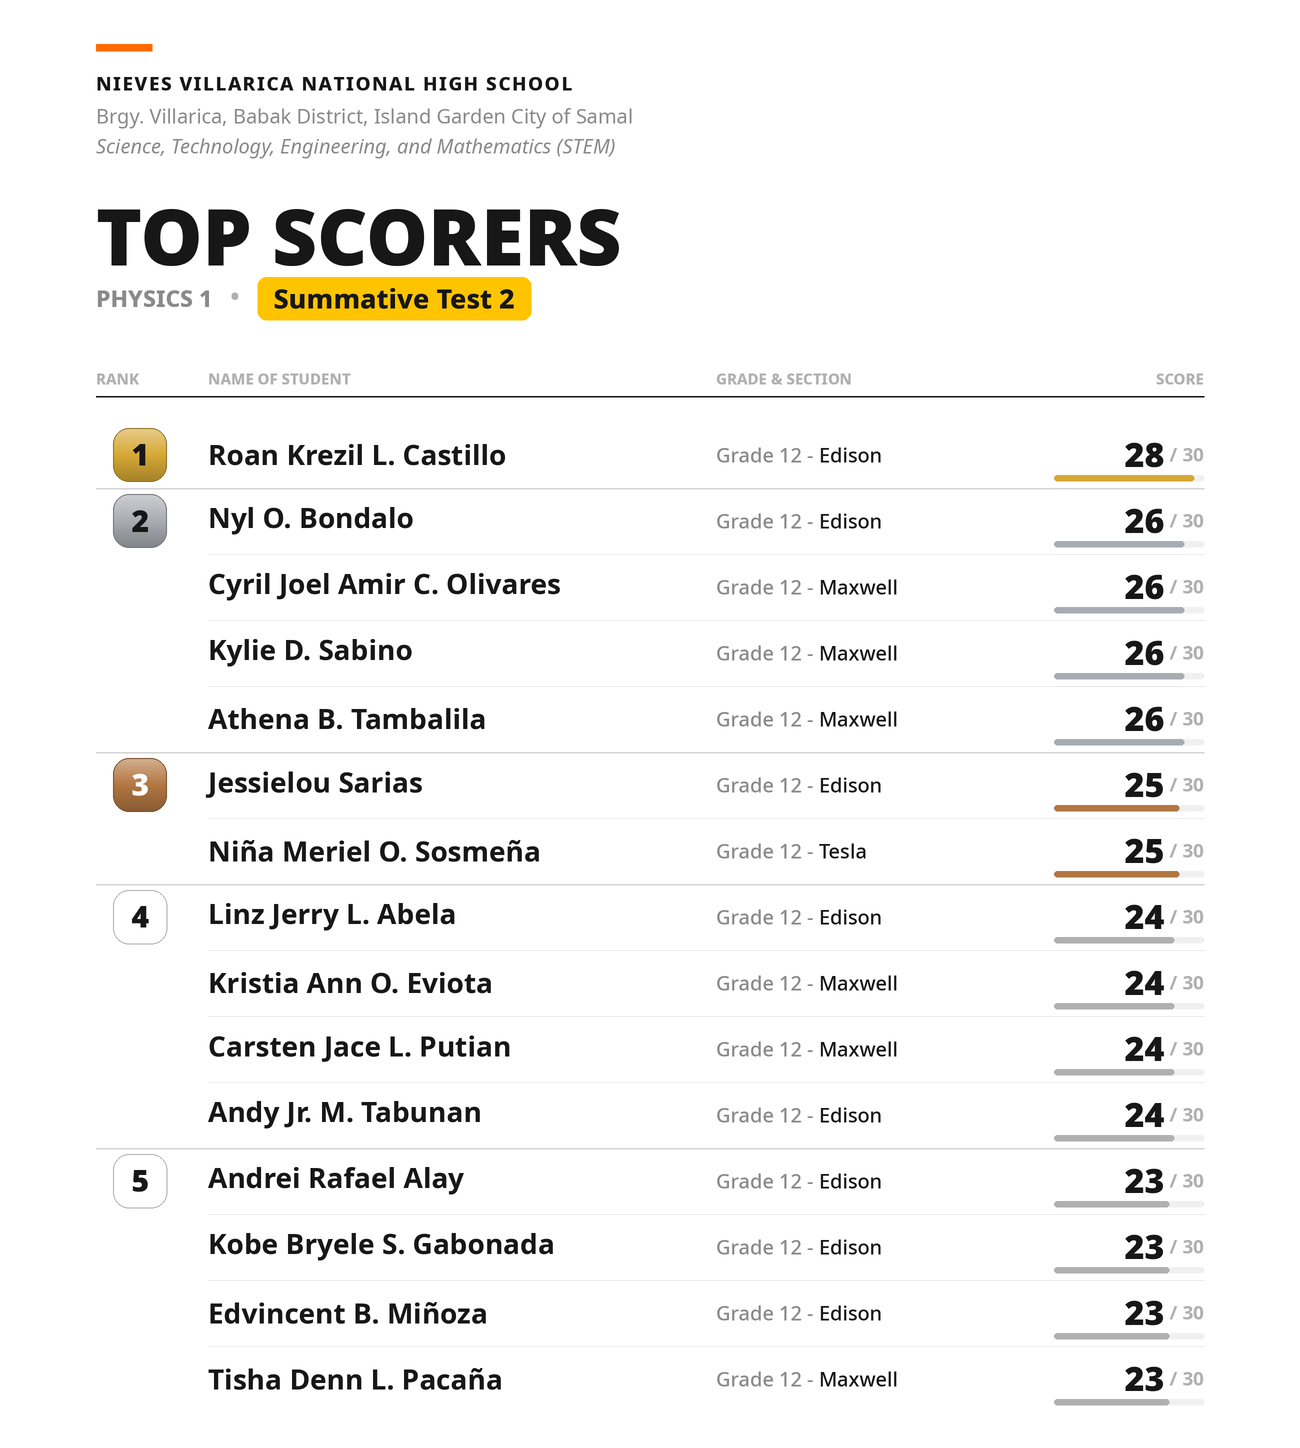
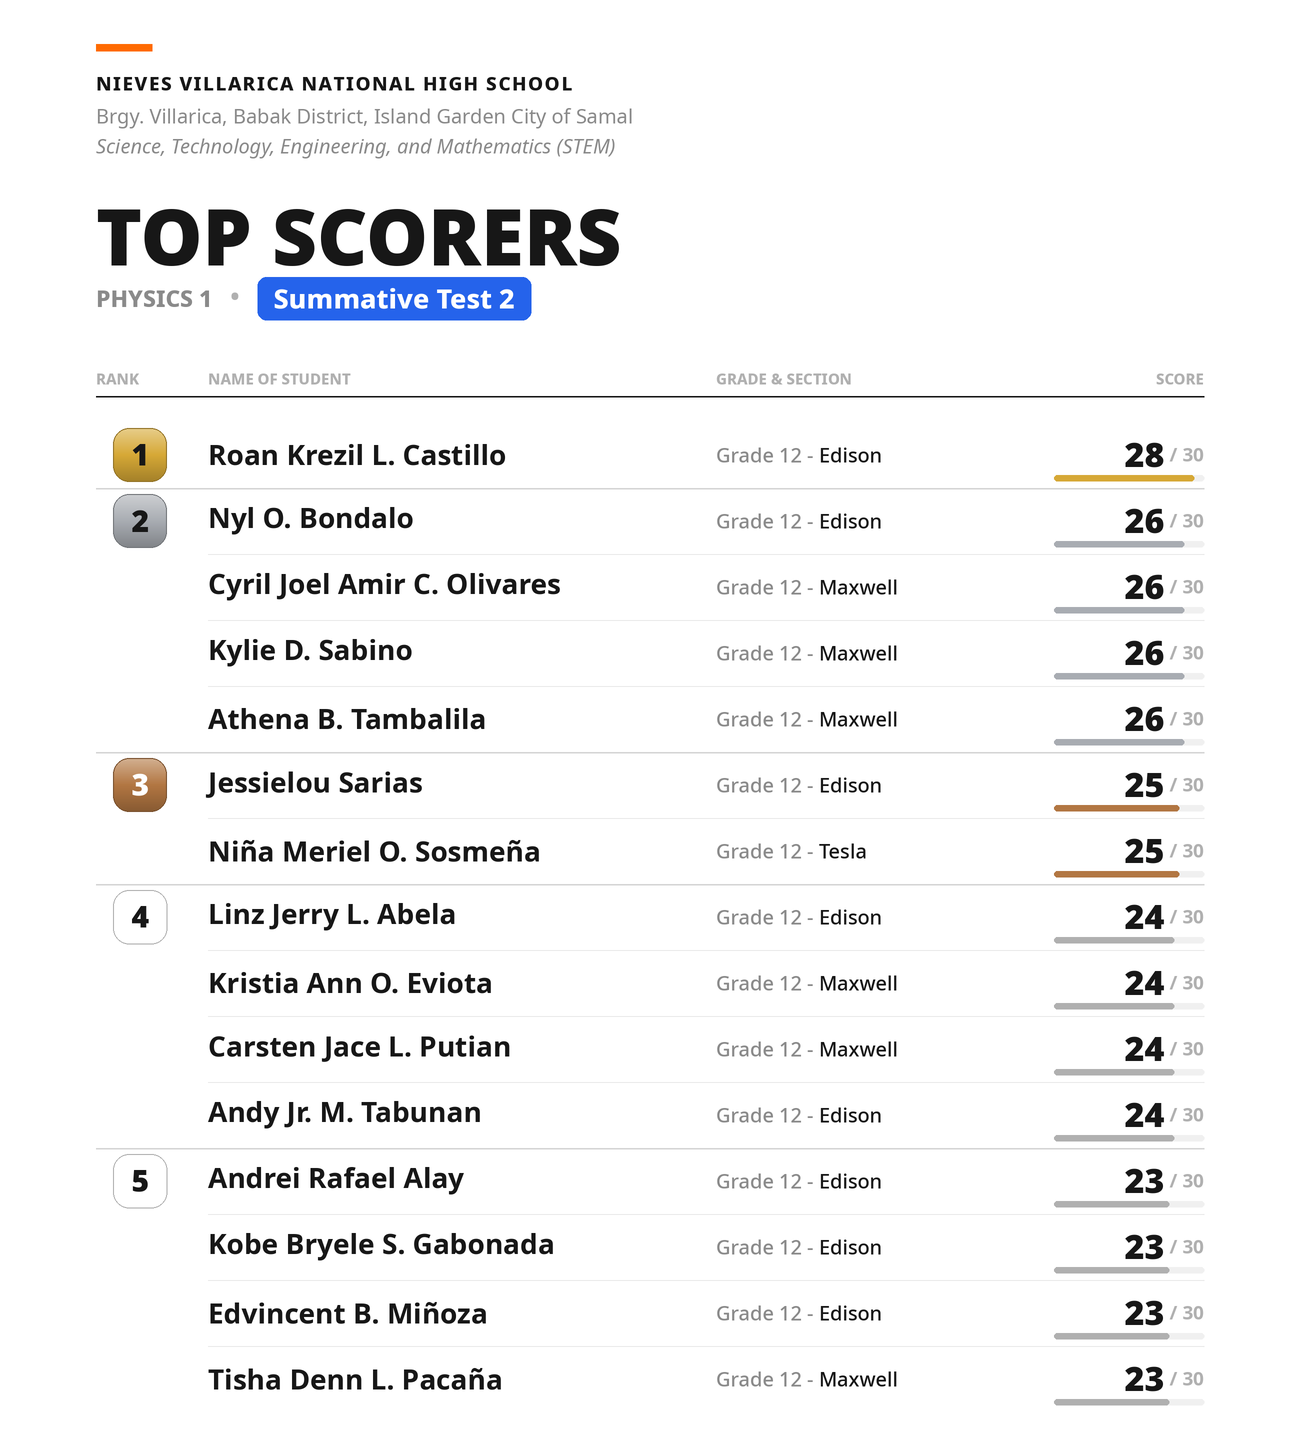
Make Summative Test 2 highlight box blue with white text

Changed region(s): [[0.1846, 0.1865, 0.4308, 0.2486]]

diff --git a/make_topscorers_t2.py b/make_topscorers_t2.py
@@ -174,9 +174,10 @@ box_l = cur
 box_t = line_mid - th / 2.0 - pad_y
 box_r = cur + tw + 2 * pad_x
 box_b = line_mid + th / 2.0 + pad_y
-rrect(d, [box_l, box_t, box_r, box_b], r=s(9), fill=YELLOW)
+BLUE = (37, 99, 235)
+rrect(d, [box_l, box_t, box_r, box_b], r=s(9), fill=BLUE)
 d.text((box_l + pad_x - tb[0], line_mid - (tb[1] + tb[3]) / 2.0),
-       "Summative Test 2", font=f_test, fill=INK)
+       "Summative Test 2", font=f_test, fill=WHITE)
 
 # ---------------------------------------------------------------- column anchors (dynamic)
 def wbase(txt, font):
